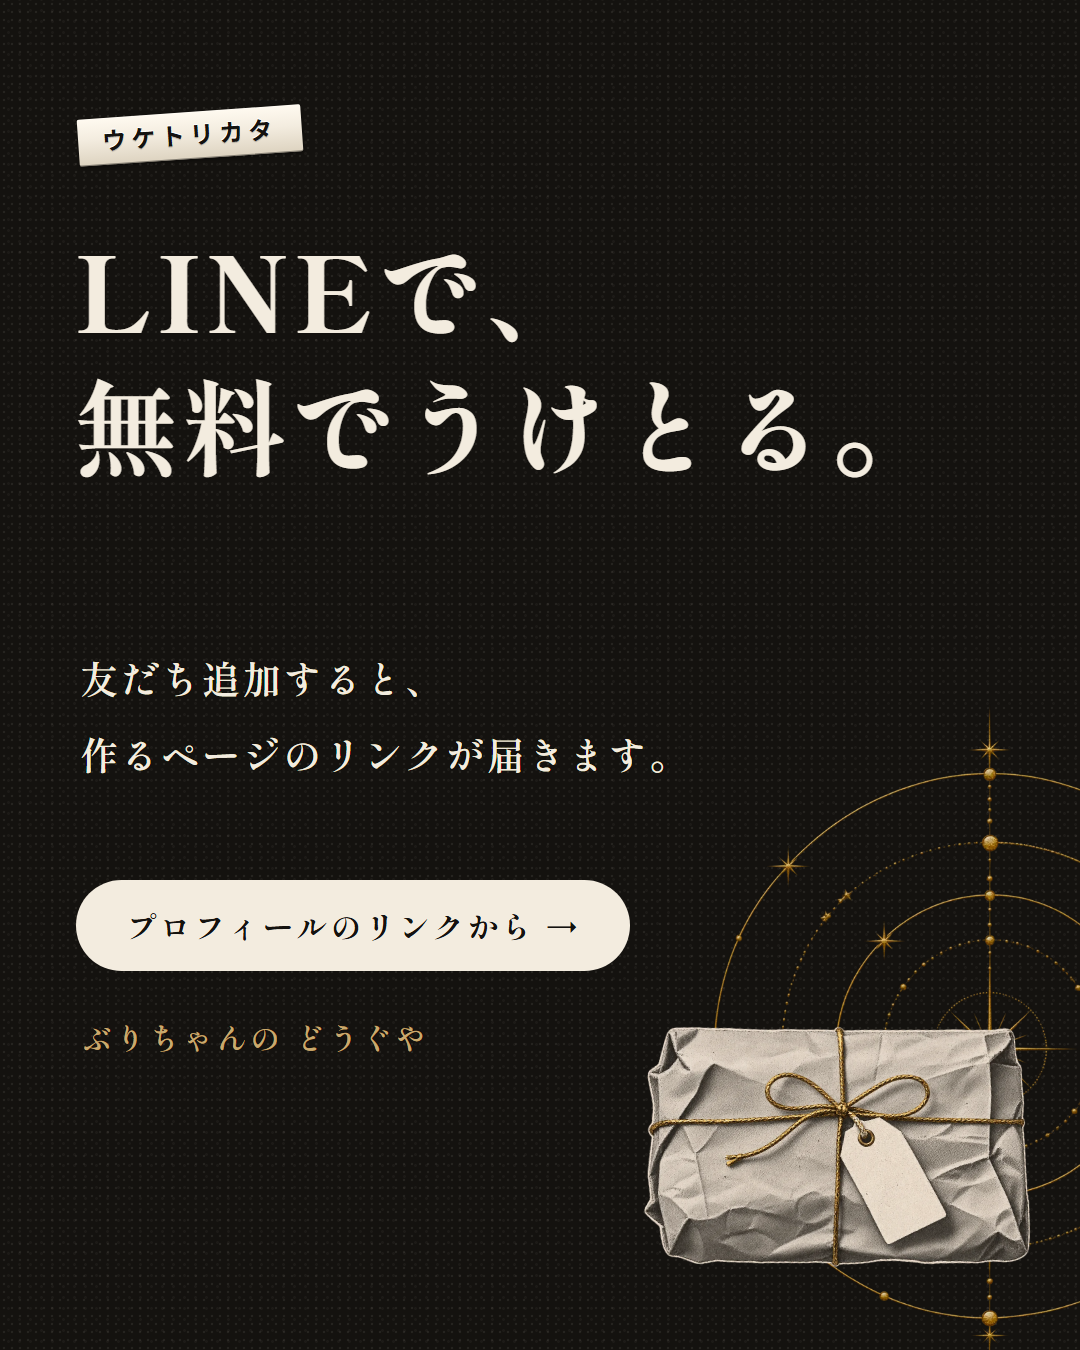
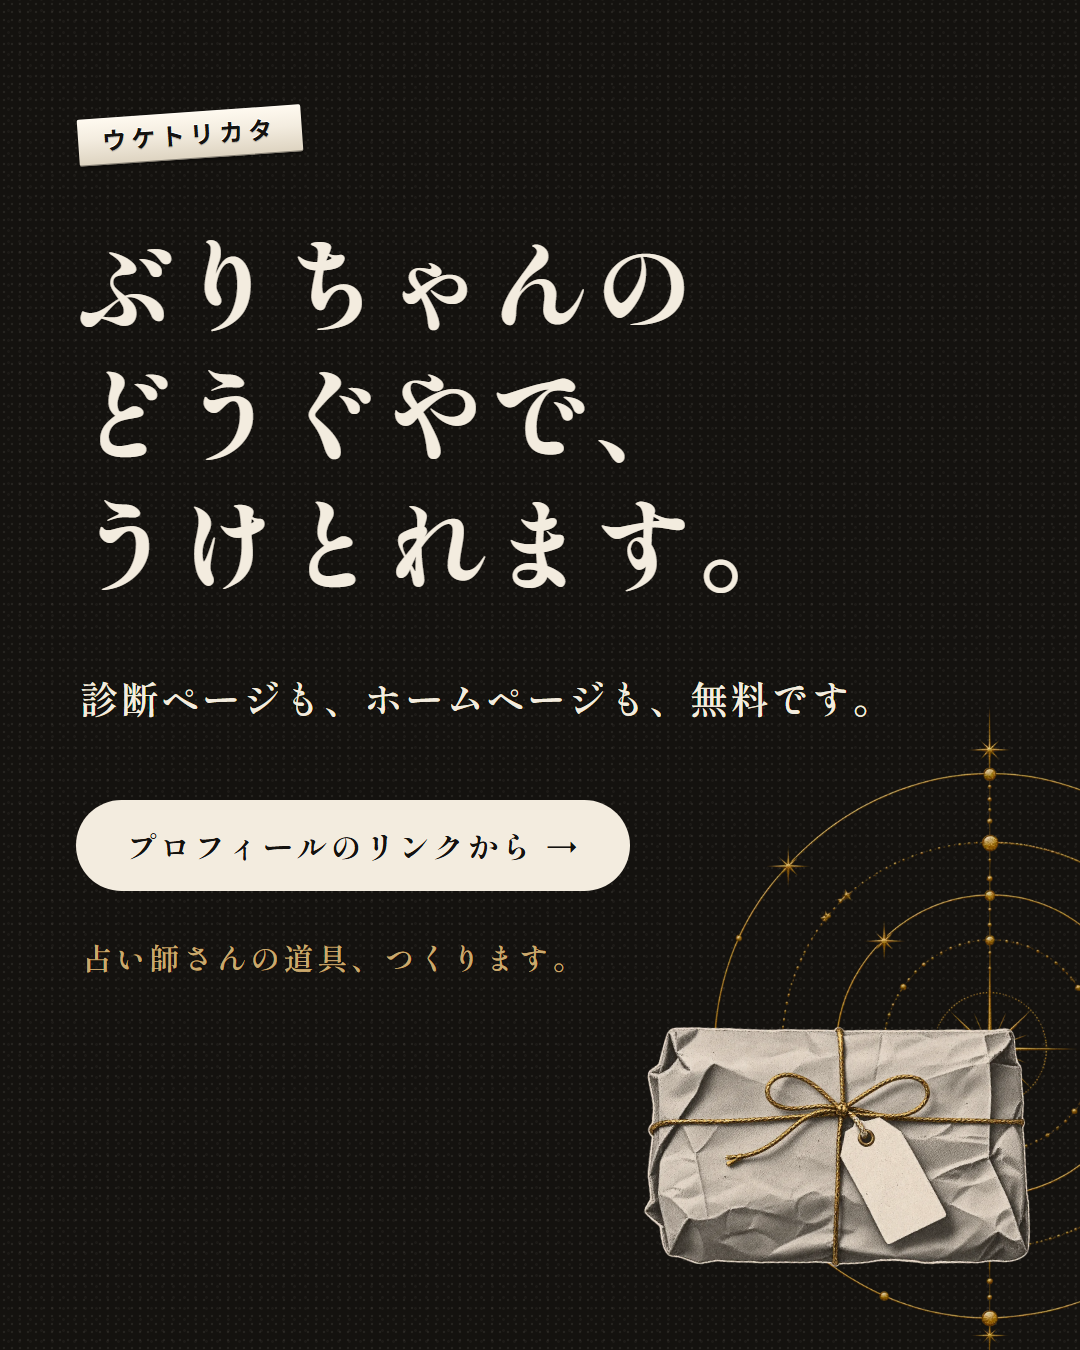
無料プレゼントの案内から LINE の文言を外し、どうぐやへの案内にする

diff --git a/ig-kit-6c0f8b552a/index.html b/ig-kit-6c0f8b552a/index.html
@@ -21,22 +21,22 @@
 
 <h2 class="part">ぶりちゃんのアカウント用</h2>
 <h2>自己紹介｜動画（20秒）</h2>
-<video src="intro-reel.mp4?v=4" controls playsinline preload="metadata"></video><a class="btn" href="intro-reel.mp4?v=4" download>保存する</a>
+<video src="intro-reel.mp4?v=5" controls playsinline preload="metadata"></video><a class="btn" href="intro-reel.mp4?v=5" download>保存する</a>
 <h2>自己紹介｜カルーセル5枚</h2>
-<div class="grid"><div><img src="intro-01.png?v=4" alt="" loading="lazy"><a href="intro-01.png?v=4" download>1枚目を保存</a></div><div><img src="intro-02.png?v=4" alt="" loading="lazy"><a href="intro-02.png?v=4" download>2枚目を保存</a></div><div><img src="intro-03.png?v=4" alt="" loading="lazy"><a href="intro-03.png?v=4" download>3枚目を保存</a></div><div><img src="intro-04.png?v=4" alt="" loading="lazy"><a href="intro-04.png?v=4" download>4枚目を保存</a></div><div><img src="intro-05.png?v=4" alt="" loading="lazy"><a href="intro-05.png?v=4" download>5枚目を保存</a></div></div>
+<div class="grid"><div><img src="intro-01.png?v=5" alt="" loading="lazy"><a href="intro-01.png?v=5" download>1枚目を保存</a></div><div><img src="intro-02.png?v=5" alt="" loading="lazy"><a href="intro-02.png?v=5" download>2枚目を保存</a></div><div><img src="intro-03.png?v=5" alt="" loading="lazy"><a href="intro-03.png?v=5" download>3枚目を保存</a></div><div><img src="intro-04.png?v=5" alt="" loading="lazy"><a href="intro-04.png?v=5" download>4枚目を保存</a></div><div><img src="intro-05.png?v=5" alt="" loading="lazy"><a href="intro-05.png?v=5" download>5枚目を保存</a></div></div>
 <h2>自己紹介｜ストーリーズ用5枚</h2>
-<div class="grid"><div><img src="intro-story-01.png?v=4" alt="" loading="lazy"><a href="intro-story-01.png?v=4" download>1枚目を保存</a></div><div><img src="intro-story-02.png?v=4" alt="" loading="lazy"><a href="intro-story-02.png?v=4" download>2枚目を保存</a></div><div><img src="intro-story-03.png?v=4" alt="" loading="lazy"><a href="intro-story-03.png?v=4" download>3枚目を保存</a></div><div><img src="intro-story-04.png?v=4" alt="" loading="lazy"><a href="intro-story-04.png?v=4" download>4枚目を保存</a></div><div><img src="intro-story-05.png?v=4" alt="" loading="lazy"><a href="intro-story-05.png?v=4" download>5枚目を保存</a></div></div>
+<div class="grid"><div><img src="intro-story-01.png?v=5" alt="" loading="lazy"><a href="intro-story-01.png?v=5" download>1枚目を保存</a></div><div><img src="intro-story-02.png?v=5" alt="" loading="lazy"><a href="intro-story-02.png?v=5" download>2枚目を保存</a></div><div><img src="intro-story-03.png?v=5" alt="" loading="lazy"><a href="intro-story-03.png?v=5" download>3枚目を保存</a></div><div><img src="intro-story-04.png?v=5" alt="" loading="lazy"><a href="intro-story-04.png?v=5" download>4枚目を保存</a></div><div><img src="intro-story-05.png?v=5" alt="" loading="lazy"><a href="intro-story-05.png?v=5" download>5枚目を保存</a></div></div>
 <h2>無料プレゼントの案内｜カルーセル5枚</h2>
-<div class="grid"><div><img src="present-01.png?v=4" alt="" loading="lazy"><a href="present-01.png?v=4" download>1枚目を保存</a></div><div><img src="present-02.png?v=4" alt="" loading="lazy"><a href="present-02.png?v=4" download>2枚目を保存</a></div><div><img src="present-03.png?v=4" alt="" loading="lazy"><a href="present-03.png?v=4" download>3枚目を保存</a></div><div><img src="present-04.png?v=4" alt="" loading="lazy"><a href="present-04.png?v=4" download>4枚目を保存</a></div><div><img src="present-05.png?v=4" alt="" loading="lazy"><a href="present-05.png?v=4" download>5枚目を保存</a></div></div>
+<div class="grid"><div><img src="present-01.png?v=5" alt="" loading="lazy"><a href="present-01.png?v=5" download>1枚目を保存</a></div><div><img src="present-02.png?v=5" alt="" loading="lazy"><a href="present-02.png?v=5" download>2枚目を保存</a></div><div><img src="present-03.png?v=5" alt="" loading="lazy"><a href="present-03.png?v=5" download>3枚目を保存</a></div><div><img src="present-04.png?v=5" alt="" loading="lazy"><a href="present-04.png?v=5" download>4枚目を保存</a></div><div><img src="present-05.png?v=5" alt="" loading="lazy"><a href="present-05.png?v=5" download>5枚目を保存</a></div></div>
 <h2>無料プレゼントの案内｜ストーリーズ用5枚</h2>
-<div class="grid"><div><img src="present-story-01.png?v=4" alt="" loading="lazy"><a href="present-story-01.png?v=4" download>1枚目を保存</a></div><div><img src="present-story-02.png?v=4" alt="" loading="lazy"><a href="present-story-02.png?v=4" download>2枚目を保存</a></div><div><img src="present-story-03.png?v=4" alt="" loading="lazy"><a href="present-story-03.png?v=4" download>3枚目を保存</a></div><div><img src="present-story-04.png?v=4" alt="" loading="lazy"><a href="present-story-04.png?v=4" download>4枚目を保存</a></div><div><img src="present-story-05.png?v=4" alt="" loading="lazy"><a href="present-story-05.png?v=4" download>5枚目を保存</a></div></div>
+<div class="grid"><div><img src="present-story-01.png?v=5" alt="" loading="lazy"><a href="present-story-01.png?v=5" download>1枚目を保存</a></div><div><img src="present-story-02.png?v=5" alt="" loading="lazy"><a href="present-story-02.png?v=5" download>2枚目を保存</a></div><div><img src="present-story-03.png?v=5" alt="" loading="lazy"><a href="present-story-03.png?v=5" download>3枚目を保存</a></div><div><img src="present-story-04.png?v=5" alt="" loading="lazy"><a href="present-story-04.png?v=5" download>4枚目を保存</a></div><div><img src="present-story-05.png?v=5" alt="" loading="lazy"><a href="present-story-05.png?v=5" download>5枚目を保存</a></div></div>
 <h2>ハイライトの表紙6枚（はじめまして／どうぐ／無料プレゼント／つくったもの／うんこ占い／にちじょう）</h2>
-<div class="grid"><div><img src="highlight-1.png?v=4" alt="" loading="lazy"><a href="highlight-1.png?v=4" download>1枚目を保存</a></div><div><img src="highlight-2.png?v=4" alt="" loading="lazy"><a href="highlight-2.png?v=4" download>2枚目を保存</a></div><div><img src="highlight-3.png?v=4" alt="" loading="lazy"><a href="highlight-3.png?v=4" download>3枚目を保存</a></div><div><img src="highlight-4.png?v=4" alt="" loading="lazy"><a href="highlight-4.png?v=4" download>4枚目を保存</a></div><div><img src="highlight-5.png?v=4" alt="" loading="lazy"><a href="highlight-5.png?v=4" download>5枚目を保存</a></div><div><img src="highlight-6.png?v=4" alt="" loading="lazy"><a href="highlight-6.png?v=4" download>6枚目を保存</a></div></div>
+<div class="grid"><div><img src="highlight-1.png?v=5" alt="" loading="lazy"><a href="highlight-1.png?v=5" download>1枚目を保存</a></div><div><img src="highlight-2.png?v=5" alt="" loading="lazy"><a href="highlight-2.png?v=5" download>2枚目を保存</a></div><div><img src="highlight-3.png?v=5" alt="" loading="lazy"><a href="highlight-3.png?v=5" download>3枚目を保存</a></div><div><img src="highlight-4.png?v=5" alt="" loading="lazy"><a href="highlight-4.png?v=5" download>4枚目を保存</a></div><div><img src="highlight-5.png?v=5" alt="" loading="lazy"><a href="highlight-5.png?v=5" download>5枚目を保存</a></div><div><img src="highlight-6.png?v=5" alt="" loading="lazy"><a href="highlight-6.png?v=5" download>6枚目を保存</a></div></div>
 <h2 class="part">うんこ占いのアカウント用</h2>
 <h2>リニューアル｜動画（12秒）</h2>
-<video src="renewal-reel.mp4?v=4" controls playsinline preload="metadata"></video><a class="btn" href="renewal-reel.mp4?v=4" download>保存する</a>
+<video src="renewal-reel.mp4?v=5" controls playsinline preload="metadata"></video><a class="btn" href="renewal-reel.mp4?v=5" download>保存する</a>
 <h2>リニューアル｜カルーセル4枚</h2>
-<div class="grid"><div><img src="renewal-01.png?v=4" alt="" loading="lazy"><a href="renewal-01.png?v=4" download>1枚目を保存</a></div><div><img src="renewal-02.png?v=4" alt="" loading="lazy"><a href="renewal-02.png?v=4" download>2枚目を保存</a></div><div><img src="renewal-03.png?v=4" alt="" loading="lazy"><a href="renewal-03.png?v=4" download>3枚目を保存</a></div><div><img src="renewal-04.png?v=4" alt="" loading="lazy"><a href="renewal-04.png?v=4" download>4枚目を保存</a></div></div>
+<div class="grid"><div><img src="renewal-01.png?v=5" alt="" loading="lazy"><a href="renewal-01.png?v=5" download>1枚目を保存</a></div><div><img src="renewal-02.png?v=5" alt="" loading="lazy"><a href="renewal-02.png?v=5" download>2枚目を保存</a></div><div><img src="renewal-03.png?v=5" alt="" loading="lazy"><a href="renewal-03.png?v=5" download>3枚目を保存</a></div><div><img src="renewal-04.png?v=5" alt="" loading="lazy"><a href="renewal-04.png?v=5" download>4枚目を保存</a></div></div>
 <h2 class="part">文章</h2>
 <h3>ぶりちゃん｜プロフィールの名前</h3><pre id="c0">ぶりちゃん｜うんこ占いをつくった人</pre><button type="button" onclick="navigator.clipboard.writeText(document.getElementById('c0').textContent).then(()=>{this.textContent='コピーしました'})">コピー</button>
 <h3>ぶりちゃん｜プロフィールの自己紹介文</h3><pre id="c1">占い師で、つくる人。
@@ -75,7 +75,7 @@
 鑑定は、先生。
 裏方は、AIと道具に。
 
-LINEで無料でうけとれます。
+ぶりちゃんのどうぐやで、無料でうけとれます。
 プロフィールのリンクからどうぞ💩
 
 #ぶりちゃんがつくったもの #占い師 #占い師さんと繋がりたい #占い師のホームページ #ぶりちゃんのどうぐや</pre><button type="button" onclick="navigator.clipboard.writeText(document.getElementById('c3').textContent).then(()=>{this.textContent='コピーしました'})">コピー</button>
